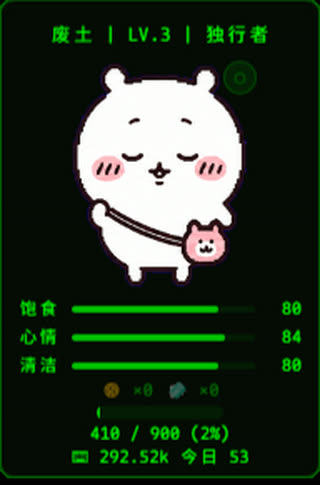
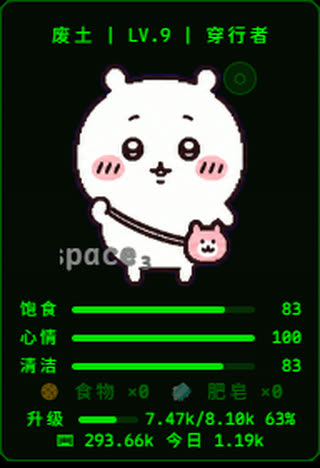
Task8o: EXP条轨道修复——数值长文本挤占轨道(offsetWidth 0),短格式7.5k/8.1k 63%+轨道min-width 36px保护+轨道底色6%→12%提亮

diff --git a/pet/style.css b/pet/style.css
@@ -82,10 +82,12 @@ body { font-family:var(--font); color:var(--fg); }
 #container.compact:hover #pet-stats { opacity:1; }
 .stat-row { display:flex;align-items:center;gap:4px; }
 .stat-label { font-size:10px;color:color-mix(in srgb,var(--fg) 50%,transparent);width:28px;flex-shrink:0; }
-.stat-track { flex:1;height:4px;background:color-mix(in srgb,var(--fg) 6%,transparent);border-radius:2px;overflow:hidden; }
-.stat-fill { height:100%;width:0%;border-radius:2px;background:color-mix(in srgb,var(--fg) 70%,transparent);transition:width 0.5s var(--ease-out); }
+.stat-track { flex:1;height:4px;background:color-mix(in srgb,var(--fg) 12%,transparent);border-radius:2px;overflow:hidden; }
+.stat-fill { height:100%;width:0%;border-radius:2px;background:color-mix(in srgb,var(--fg) 85%,transparent);transition:width 0.5s var(--ease-out); }
 .stat-row.low .stat-fill { background:#FF9800; }
 .stat-value { font-size:10px;color:color-mix(in srgb,var(--fg) 60%,transparent);width:24px;text-align:right;flex-shrink:0; }
+#exp-row .stat-value { width:auto;min-width:64px; }   /* EXP 数值长（7.5k/8.1k 63%），放宽 */
+#exp-row .stat-track { min-width:36px; }               /* 防数值过长把轨道挤成 0 */
 .stat-row.low .stat-value { color:#FF9800; }
 #container:hover .stat-label, #container:hover .stat-value { color:var(--fg); }
 #container:hover .stat-row.low .stat-value { color:#FF9800; }

diff --git a/pet/pet.js b/pet/pet.js
@@ -268,7 +268,7 @@ function updateExpBar(){
   expFill.style.width=`${rounded}%`;
   displayExpFull+=(e-displayExpFull)*0.3;
   if(Math.abs(displayExpFull-e)<1)displayExpFull=e;
-  expDetail.textContent=`${shortNum(displayExpFull)} / ${shortNum(nr)} (${rounded}%)`;
+  expDetail.textContent=`${shortNum(displayExpFull)}/${shortNum(nr)} ${rounded}%`;   // 短格式防挤占轨道
 }
 const COMBO_COLORS={
   'D':['#888','#666'],'C':['#aaa','#888'],'B':['#6b6','#484'],
